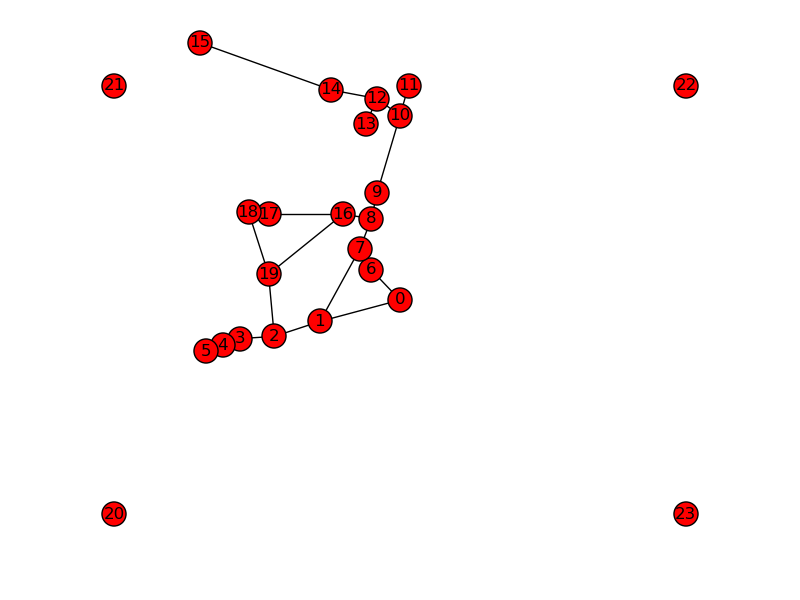
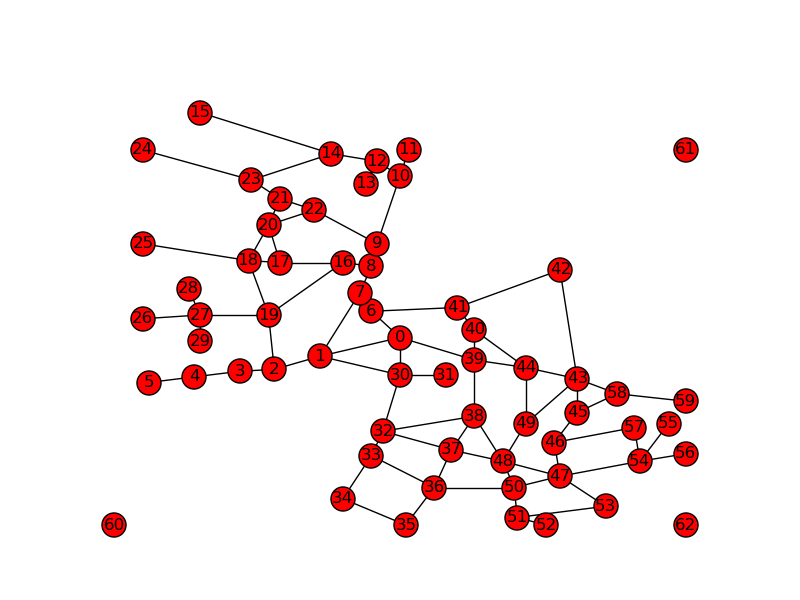
data

diff --git a/final-thesis/src/code/graph/data.py b/final-thesis/src/code/graph/data.py
@@ -248,26 +248,43 @@ def _simplify_graph(g):
         ng.add_double_edge(edge[0], edge[1])
     return ng
 
-'''
+
 graph_8 = {
     'nodes':
-    [(500, 500), (360, 450), (280, 415), (220, 410), (190, 395), (160, 380),  # 6 kaire
+    [(500, 500), (360, 450), (280, 415), (220, 410), (140, 395), (60, 380),  # 6 kaire
      (450, 570), (430, 620), (450, 690), (460,
                                           750), (500, 930), (515, 1000),  # 12 virsu
      (460, 970), (440, 910), (380, 990), (150, 1100),  # 16
-     (400, 700), (270, 700), (235, 705), (270, 560),
+     (400, 700), (290, 700), (235, 705), (270, 560),  # 20
+     (270, 800), (290, 870), (350, 840), (240, 920), (50, 1000),  # 25
+     (50, 750), (50, 550), (150, 560), (130, 630), (150, 490),  # 30
+     (500, 400), (580, 400), (470, 250), (450, 185), (400, 70),  # 35
+     (510, 0), (560, 100), (590, 200), (630, 290), (630, 440),  # 40
+     (630, 520), (600, 580), (780, 680), (810, 390), (720, 420),  # 45
+     (810, 300), (770, 220), (780, 130), (680, 170), (720, 270),  # 50
+     (700, 100), (705, 20), (755, 0), (860, 50), (920, 170),  # 55
+     (970, 270), (1000, 190), (910, 260), (880, 350), (1000, 330),  # 60
 
-        (0, 0), (0, 1000), (1000, 1000), (1000, 0)],
+        (0, 0), (1000, 1000), (1000, 0)],
     'edges':
     [[1, 6], [2], [3], [4], [5], [],  # 6
      [7], [1, 8], [9], [10], [11], [],  # 12
      [10, 13], [], [12, 15], [],  # 16
-     [8], [16, 17], [19], [2, 16]
+     [8], [16, 18], [19], [2, 16],  # 20
+     [17, 18, 21], [22], [9, 20], [21, 14, 24],  # 25
+     [], [18], [], [26, 19, 28, 29], [], [],  # 30
+     [1, 0, 31], [], [30, 33], [], [33, 35],  # 35
+     [], [35, 33], [36, 32, 38], [32], [0, 38],  # 40
+     [39, 41], [6], [41, 43], [], [43, 40, 39],  # 45
+     [43, 46], [], [46, 48], [37, 38, 49], [44, 43],  # 50
+     [48, 51, 36, 47], [], [51], [51, 47], [47, 55, 56],  # 55
+     [], [], [54, 46], [43, 45, 59], [],  # 60
+
+        []
      ]
 }
 gr = make_graph_from_data(graph_8)
 gr.show('test')
-'''
 
 
 def __clean(g):
